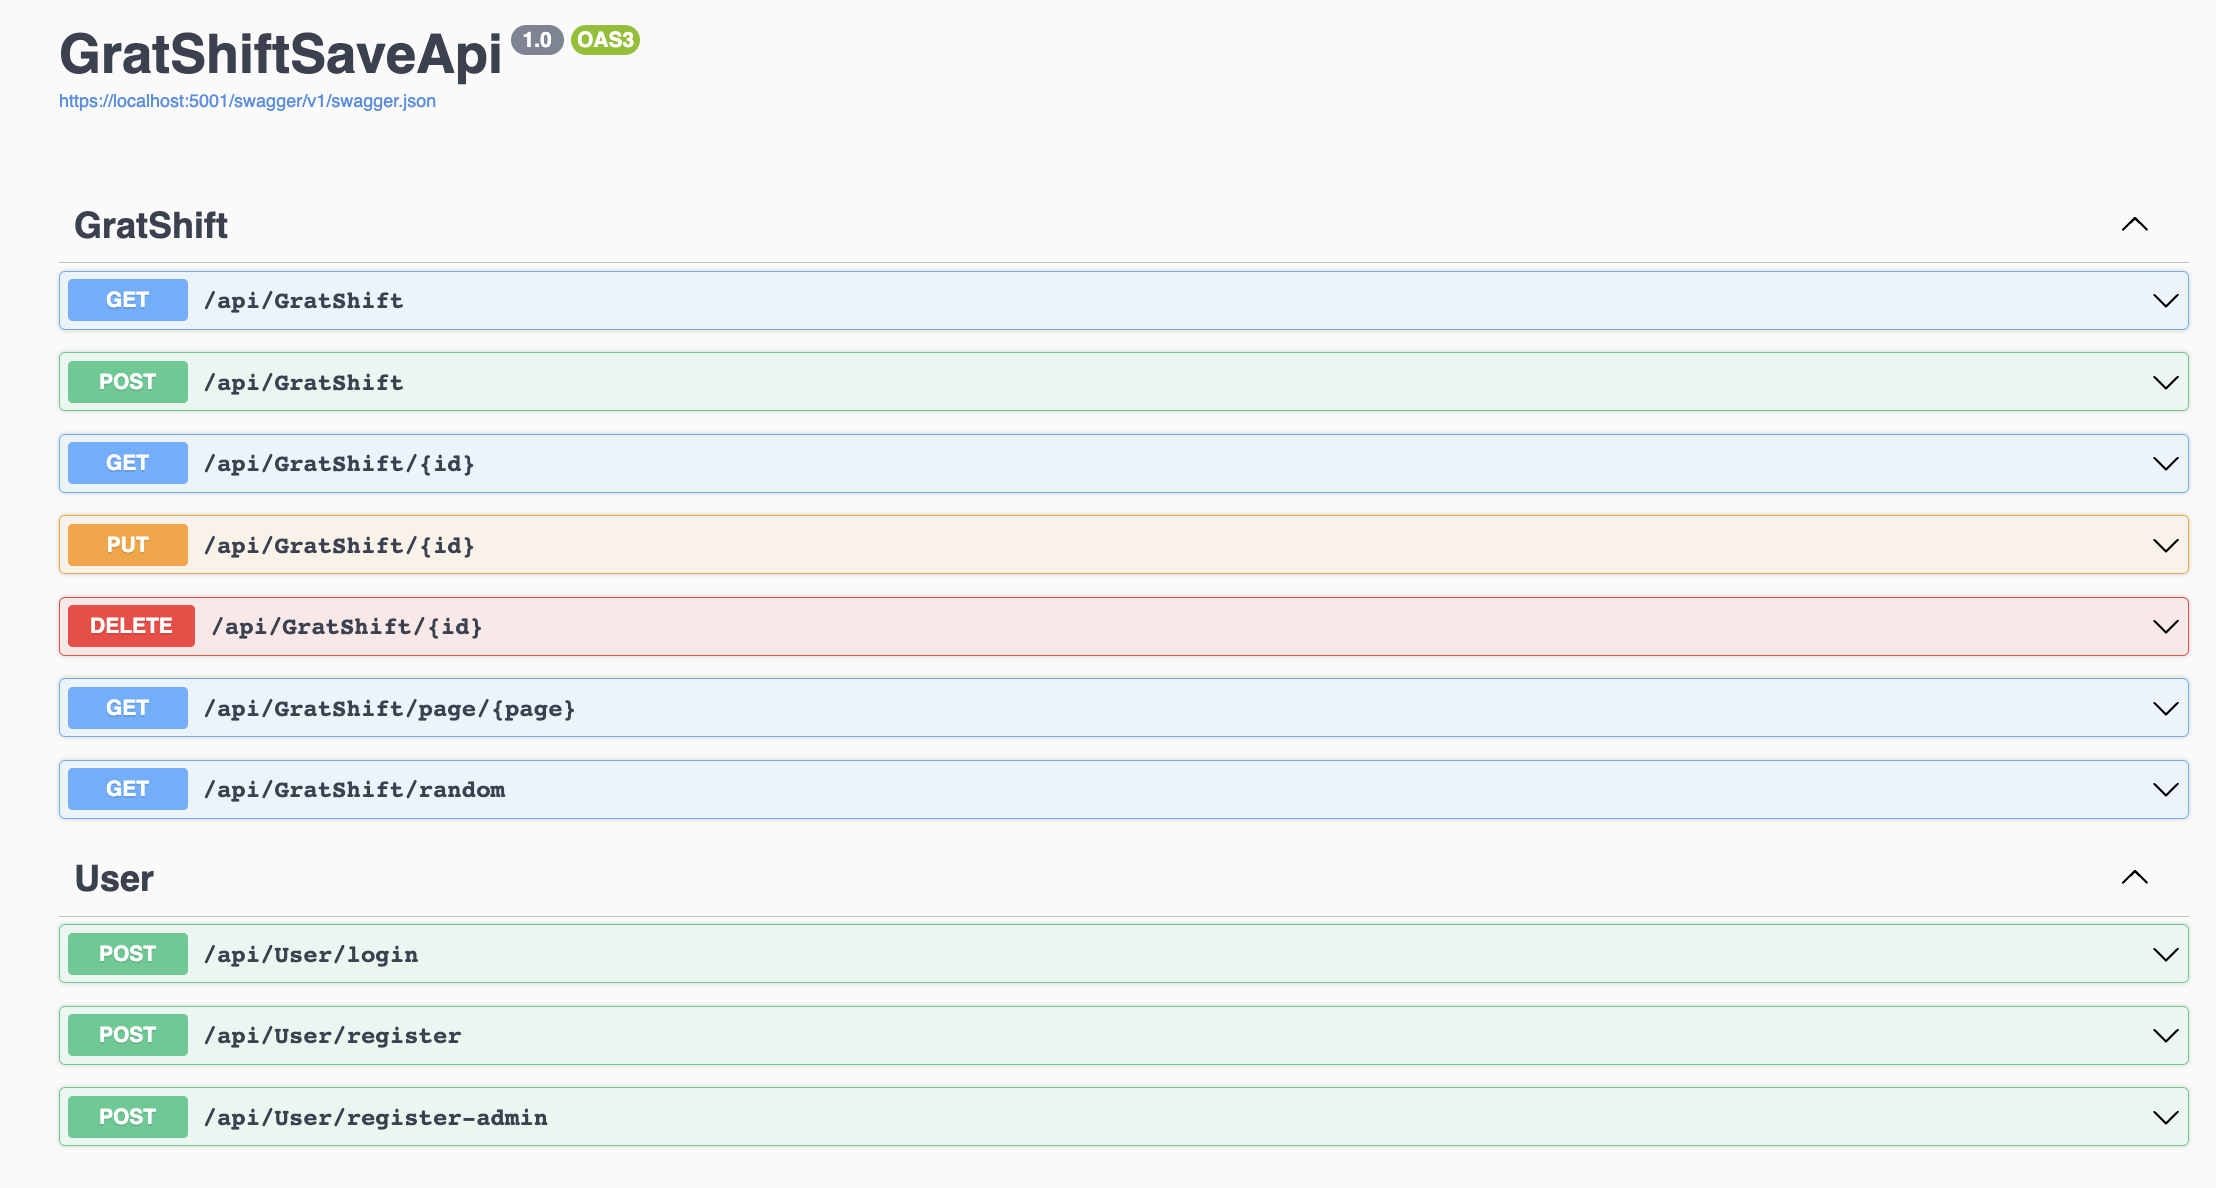
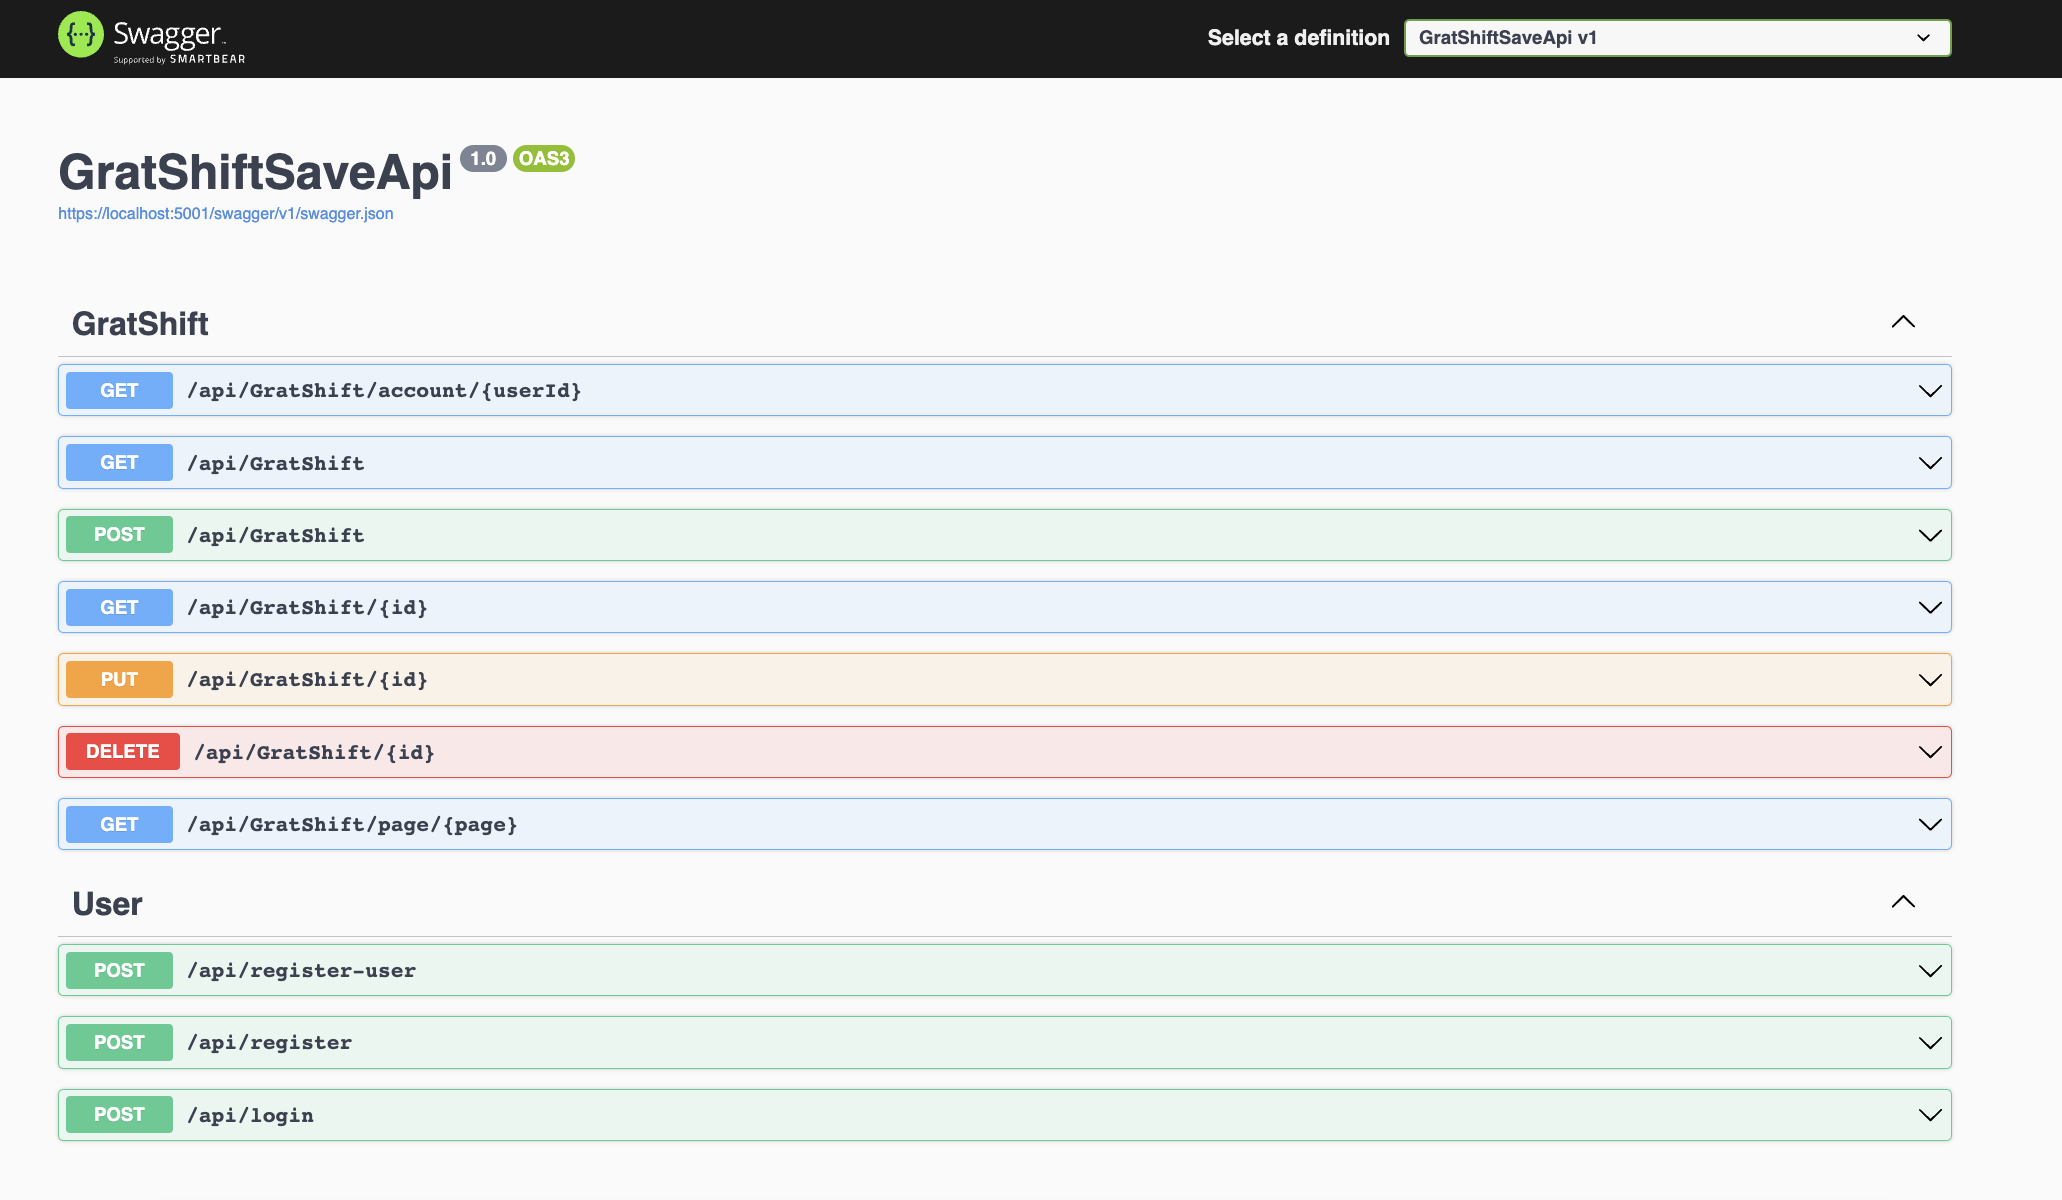
update README

diff --git a/README.md b/README.md
@@ -1,8 +1,8 @@
 <h1 align="center"> Grat Shift Save API</h1>
 
-#### By Eliot Gronstal 5.11.23
+<h3 align="center">By Eliot Gronstal 5.11.23</h3>
 
-#### A web API created to host and track an authenticated user's gratuity based income using a MySQL database. It was made with JWT for Authentication and uses Entity and Identity Frameworks. A Google Firestore database table called "Users" is also created for the purpose of utilizing that informtation for the app's corresponding React.js front end.
+<h3 align="center"> A web API created to host and track an authenticated user's gratuity based income using a MySQL database. It was made with JWT for Authentication and uses Entity and Identity Frameworks. A Google Firestore database table called "Users" is also created for the purpose of utilizing that informtation for the app's corresponding React.js front end.</h3>
 
 ## Technologies Used
 
@@ -34,15 +34,18 @@ There are custom endpoints for some of these user stories:
 _Requires console application such as Git Bash, Terminal, or PowerShell_
 
 1. Open Git Bash or PowerShell if using Windows and Terminal if using Mac
+
 2. Run the command
 
    `git clone https://github.com/elgrons/GratShiftSaveApi.Solution`
 
-3. Run the command
+3. Run the command and open the project file.
 
    `cd GratShiftSaveApi.Solution`
 
-- You should now have a folder `GratShiftSaveApi` with the following structure.
+4. Create a `.gitignore` file in the root folder. This project will require use of sensitive information that should not be publicly shared.
+
+5. You should now have a folder `GratShiftSaveApi` with the following structure.
     <pre>GratShiftSaveApi.Solution
     ├── .gitignore 
     ├── ... 
@@ -52,9 +55,9 @@ _Requires console application such as Git Bash, Terminal, or PowerShell_
         ├── ...
         ├── README.md</pre>
 
-3. Create a `.gitignore` file in the root folder. This project will require use of sensitive information that should not be publicly shared.
+6. Create a `.gitignore` file in the root folder. This project will require use of sensitive information that should not be publicly shared.
 
-4. Copy and paste the following information into the .gitignore file:
+7. Copy and paste the following information into the .gitignore file:
 ```text
 obj
 bin
@@ -62,7 +65,7 @@ appsettings.json
 serviceaccountkey.json
 ```
 
-5. Create two files in the following location, inside the GratShiftSaveApi folder:
+8. Create two files in the following location, inside the GratShiftSaveApi folder:
 
   * One named `appsettings.json`
   * Another named `serviceaccountkey.json`
@@ -77,7 +80,7 @@ serviceaccountkey.json
     └── <strong>serviceaccountkey.json</strong>
     └── <strong>appsettings.json</strong></pre>
 
-6. Copy and paste the text below into serviceaccountkey.json. 
+9. Copy and paste the text below into serviceaccountkey.json. 
 
 ```json
 {
@@ -94,9 +97,9 @@ serviceaccountkey.json
   "universe_domain": "googleapis.com"
 }
 ```
-7. Replace the informoration within the curly brackets with your Firebase service account private key. To generate that key you will need to:
+10. Replace the informoration within the curly brackets with your Firebase service account private key. To generate that key you will need to:
 
-    *NOTE* If you are not planning on using this Web Api with the corresponding React.js front-end the following instructions within Step 7 are not required and you may skip ahead to Step 8.
+    <strong>*NOTE*</strong> If you are not planning on using this Web Api with the corresponding React.js front-end the following instructions within Step 7 are not required and you may skip ahead to Step 8.
 
   * Set up a [Firebase account](https://firebase.google.com/)
   * Click on "Get Started", then "+ Add Project" to create a Firebase project that will hold the Firestore database and corresponding app.
@@ -112,7 +115,7 @@ serviceaccountkey.json
   ![serviceaccountkey](GratShiftSaveApi/wwwroot/img/FirestoreServiceAccountKey.png)
   * The private key will be downloaded to your local computer. Copy the information and put it into your serviceaccountkey.json file.
 
-8. Copy and paste below JSON text in appsettings.json.
+11. Copy and paste below JSON text in appsettings.json.
 
 ```json
 {
@@ -138,13 +141,13 @@ serviceaccountkey.json
 }
 ```
 
-9. Replace [YOUR-USERNAME-HERE] with your MySQL username.
+12. Replace [YOUR-USERNAME-HERE] with your MySQL username.
 
-10. Replace [YOUR-PASSWORD-HERE] with your MySQL password.
+13. Replace [YOUR-PASSWORD-HERE] with your MySQL password.
 
-11. Replace [YOUR-PROJECT-ID] with your Firestore project ID from your service account key.
+14. Replace [YOUR-PROJECT-ID] with your Firestore project ID from your service account key.
 
-12. Run the command
+15. Run the command
 
    `dotnet ef database update`
 
@@ -168,40 +171,73 @@ This program was built using _`Microsoft .NET SDK 6.0`_, and may not be compatib
 
 Explore the API endpoints in Postman or in a browser. You will not be able to utilize authentication in a browser so using Postman is recommended.
 
-#### Swagger Documentation
+### Swagger Documentation
 
 To view the Swagger documentation for the GratShiftSaveApi, launch the project using `dotnet run` using Terminal or Powershell, then input the following URL into your browser: `https://localhost:5001/swagger/index.html`
 
 ![swaggerendpoints](GratShiftSaveApi/wwwroot/img/SwaggerEndpoints.png)
 
-## Registration and Login
+### HTTP Request Structure
 
-
-
-## HTTP Request Structure
-
+If you're using `dotnet run` the following endpoints can be used via localhost:
 ```
-GET https://localhost:5001/api/GratShift/
-GET https://localhost:5001/api/GratShift/{id}
-POST https://localhost:5001/api/GratShift/
+GET https://localhost:5001/api/GratShift
+GET https://localhost:5001/api/GratShift
+GET https://localhost:5001/api/GratShift/account/{userId}
+POST https://localhost:5001/api/GratShift
 PUT https://localhost:5001/api/GratShift/{id}
 DELETE https://localhost:5001/api/GratShift/{id}
 GET https://localhost:5001/api/GratShift/page/{page}
-GET https://localhost:5001/api/GratShift/?TestAccount
+
+POST https://localhost:5001/api/register
+POST https://localhost:5001/api/register-user
+POST https://localhost:5001/api/login
 ```
+The API is also deployed via Microsoft Azure and endpoints can be explored via the following domain:
 ```
-GET https://grat-shift-save-api.azurewebsites.net/api/GratShift/
-GET https://grat-shift-save-api.azurewebsites.net/api/GratShift/{id}
+GET https://grat-shift-save-api.azurewebsites.net/api/GratShift
 GET https://grat-shift-save-api.azurewebsites.net/api/GratShift/account/{userId}
-POST https://grat-shift-save-api.azurewebsites.net/api/GratShift/
+POST https://grat-shift-save-api.azurewebsites.net/api/GratShift
 PUT https://grat-shift-save-api.azurewebsites.net/api/GratShift/{id}
 DELETE https://grat-shift-save-api.azurewebsites.net/api/GratShift/{id}
 GET https://grat-shift-save-api.azurewebsites.net/api/GratShift/page/{page}
-POST https://grat-shift-save-api.azurewebsites.net/api/GratShift/register
-POST https://grat-shift-save-api.azurewebsites.net/api/GratShift/login
+
+POST https://grat-shift-save-api.azurewebsites.net/api/register
+POST https://grat-shift-save-api.azurewebsites.net/api/register-user
+POST https://grat-shift-save-api.azurewebsites.net/api/login
 ```
 
-- To utilize the POST request and create a new instance of a GratShift, the following information is required.
+### Registration, and Login with JWT-based Authentication
+
+## Registration
+- To register a user in Postman the following structure is required for the POST request:
+```
+{
+    "Username":"TestAccount",
+    "Email": "testAccount@email.com",
+    "Password":"Password123!"
+}
+```
+![register](GratShiftSaveApi/wwwroot/img/CreateUser.png)
+
+## Login and JWT Retrieval
+
+- To login a user in Postman the previous structure in the body (that contains Username, Email, and Password data) may remain. For the login POST request ensure the endpoint is updated from "register" to "login".
+
+![login](GratShiftSaveApi/wwwroot/img/Login.png)
+
+- Before you make a GET request, copy and paste the JWT token from the body (without the quotation marks surrounding it).
+- Select the "Authorization" field and select "JWT Bearer" from the drop down menu. Paste the token string into the field in the upper body of the form.
+
+![jwtretrieval](GratShiftSaveApi/wwwroot/img/JWTAuthToken.png)
+
+- Now you are ready to create a GET request to get all available GratShift data from the database. *Note, no GratShifts have been returned in the example below becuase the database was cleared for example purposes.*
+
+![getrequest](GratShiftSaveApi/wwwroot/img/GetRequest.png)
+
+### Generating New Instance of GratShift
+
+- To utilize the POST request and create a new instance of a GratShift, the following information structure is required, while the actual information input can vary.
 
 ```
 {
@@ -227,6 +263,7 @@ https://grat-shift-save-api.azurewebsites.net/api/GratShift/1
 
 #### Sample JSON Response
 
+For an instance of a GratShift:
 ```
 {
   "gratShiftId": 1,
@@ -236,6 +273,7 @@ https://grat-shift-save-api.azurewebsites.net/api/GratShift/1
   "shiftDate": "2023-03-01T00:00:00"
 }
 ```
+For an instance of creating a user:
 ```
 {
     "Username":"TestAccount",
